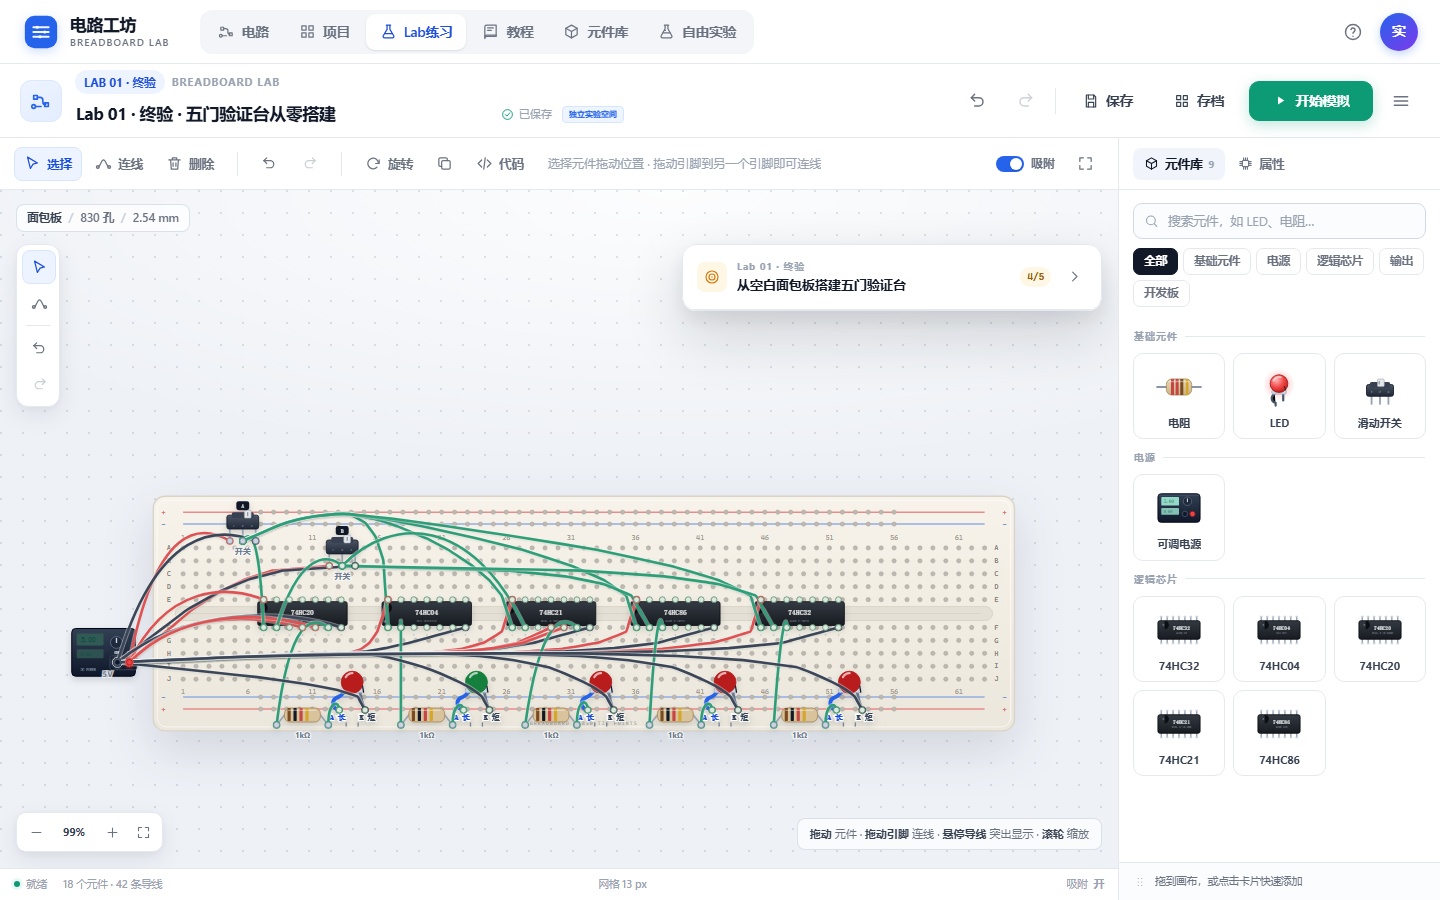
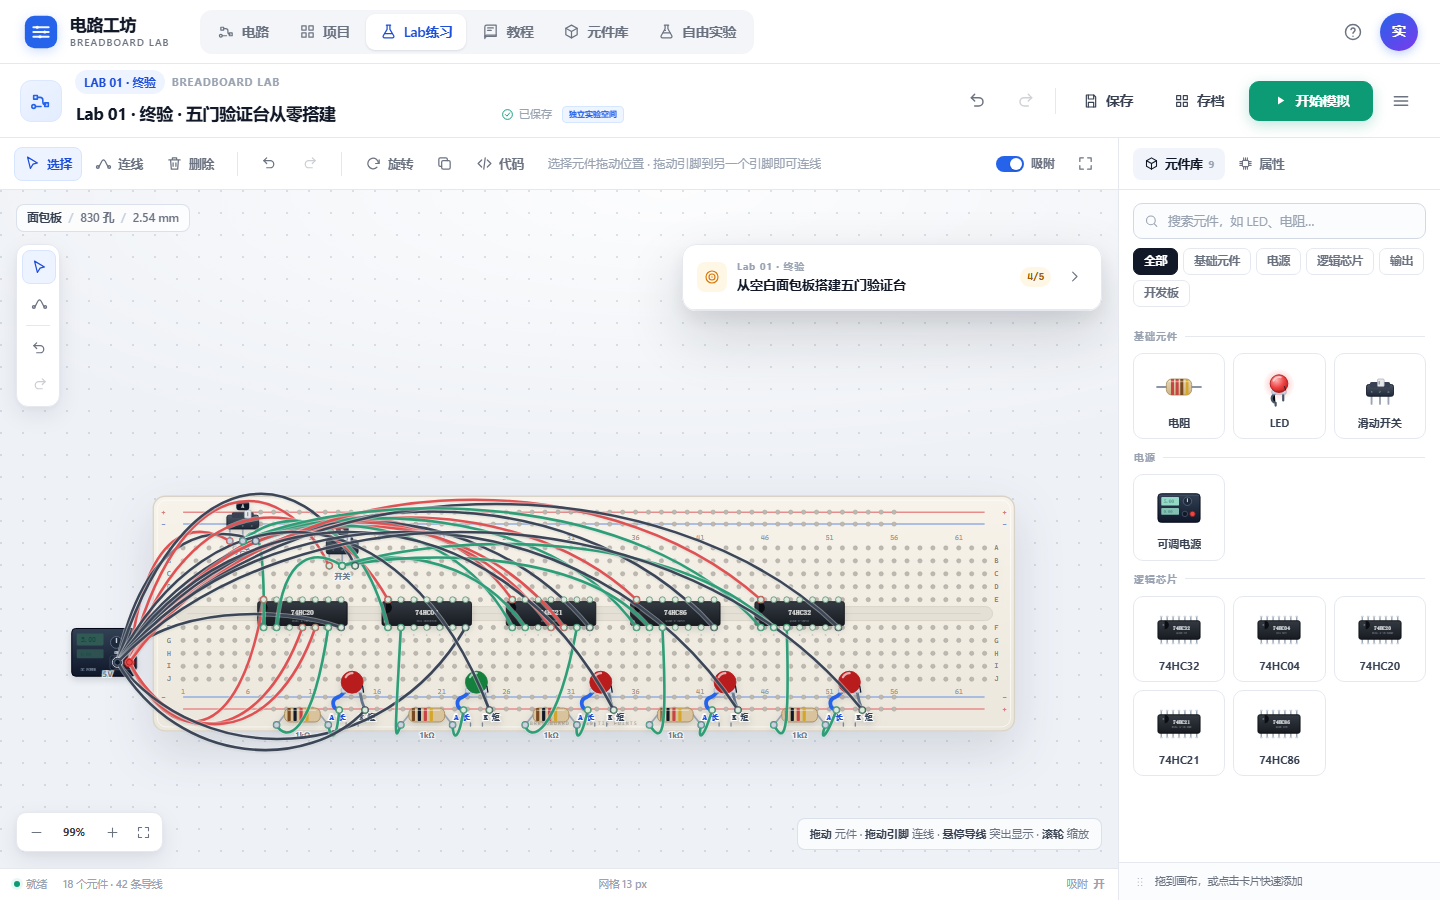
Add files via upload

Changed region(s): [[0.0625, 0.5289, 0.5938, 0.84]]

diff --git a/js/editor.js b/js/editor.js
@@ -1012,60 +1012,43 @@
     const dx = b.x - a.x, dy = b.y - a.y;
     const dist = Math.max(1, Math.hypot(dx, dy));
     const n = Number(seed) || 0;
-    if (dist < 34 && Math.abs(dy) < 24) {
-      const lift = 8 + (Math.abs(n) % 3) * 2;
-      const cy = Math.min(a.y, b.y) - lift;
-      return 'M' + a.x.toFixed(2) + ' ' + a.y.toFixed(2) + ' C' + a.x.toFixed(2) + ' ' + cy.toFixed(2) + ' ' + b.x.toFixed(2) + ' ' + cy.toFixed(2) + ' ' + b.x.toFixed(2) + ' ' + b.y.toFixed(2);
-    }
-    const rects = (obstacles || []).map((o) => ({
-      x: o.x - 14, y: o.y - 14, w: o.w + 28, h: o.h + 28
-    }));
+    const bend = ((n % 9) - 4);
     const minY = Math.min(a.y, b.y), maxY = Math.max(a.y, b.y);
-    const minX = Math.min(a.x, b.x) - 10, maxX = Math.max(a.x, b.x) + 10;
-    if (this.segmentClear(a, b, rects)) {
-      const lift = Math.min(18, 8 + dist * 0.03) + (Math.abs(n) % 5) * 1.2;
-      const cy = Math.min(a.y, b.y) - lift;
-      const sway = ((Math.abs(n) % 7) - 3) * 1.3;
-      const c1 = { x: a.x + dx * 0.28 + sway, y: cy };
-      const c2 = { x: b.x - dx * 0.28 + sway, y: cy };
-      if (this.cubicClear(a, c1, c2, b, rects)) {
-        return 'M' + a.x.toFixed(2) + ' ' + a.y.toFixed(2) +
-          ' C' + c1.x.toFixed(2) + ' ' + c1.y.toFixed(2) + ' ' + c2.x.toFixed(2) + ' ' + c2.y.toFixed(2) + ' ' + b.x.toFixed(2) + ' ' + b.y.toFixed(2);
-      }
-    }
+    const minX = Math.min(a.x, b.x) - 6, maxX = Math.max(a.x, b.x) + 6;
     let top = Infinity, bottom = -Infinity;
-    rects.forEach((o) => {
+    (obstacles || []).forEach((o) => {
       if (o.x < maxX && o.x + o.w > minX) {
         top = Math.min(top, o.y);
         bottom = Math.max(bottom, o.y + o.h);
       }
     });
-    const aboveLift = top === Infinity ? 18 : Math.max(18, minY - top + 18);
-    const belowLift = bottom === -Infinity ? 18 : Math.max(18, bottom - maxY + 18);
-    const sides = aboveLift <= belowLift ? [-1, 1] : [1, -1];
+    const aboveLift = top === Infinity ? Math.max(12, 14 + dist * 0.035) : Math.max(16, minY - top + 16);
+    const belowLift = bottom === -Infinity ? Math.max(12, 14 + dist * 0.035) : Math.max(16, bottom - maxY + 16);
+    const boardMid = this.scene && this.scene.board ? this.scene.board.y + this.scene.board.h * 0.52 : 440;
+    const preferBelow = a.y > boardMid && b.y > boardMid && Math.abs(dx) < 180;
+    const sides = preferBelow ? [1, -1] : [-1, 1];
     for (const side of sides) {
       const base = side < 0 ? aboveLift : belowLift;
       for (let extra = 0; extra < 4; extra++) {
-        const apex = side < 0 ? minY - base - extra * 11 : maxY + base + extra * 11;
-        const sway = ((Math.abs(n) % 7) - 3) * 2 + side * 2;
-        const c1 = { x: a.x + dx * 0.28 + sway, y: apex };
-        const c2 = { x: b.x - dx * 0.28 + sway, y: apex };
-        if (this.cubicClear(a, c1, c2, b, rects)) {
-          return 'M' + a.x.toFixed(2) + ' ' + a.y.toFixed(2) +
-            ' C' + c1.x.toFixed(2) + ' ' + c1.y.toFixed(2) + ' ' + c2.x.toFixed(2) + ' ' + c2.y.toFixed(2) + ' ' + b.x.toFixed(2) + ' ' + b.y.toFixed(2);
+        const cy = side < 0 ? minY - base - extra * 10 : maxY + base + extra * 10;
+        const sway = bend * 2.2;
+        const x1 = a.x + dx * 0.24 + sway;
+        const x2 = b.x - dx * 0.24 + sway;
+        if (this.cubicClear(a, { x: x1, y: cy }, { x: x2, y: cy }, b, obstacles || [])) {
+          return 'M' + a.x.toFixed(2) + ' ' + a.y.toFixed(2) + ' C' + x1.toFixed(2) + ' ' + cy.toFixed(2) + ' ' + x2.toFixed(2) + ' ' + cy.toFixed(2) + ' ' + b.x.toFixed(2) + ' ' + b.y.toFixed(2);
         }
       }
     }
-    const route = this.routeAround(a, b, rects);
-    if (route && route.length > 2) {
-      const clean = route.filter((p, i) => i === 0 || Math.hypot(p.x - route[i - 1].x, p.y - route[i - 1].y) > 2);
-      if (clean.length > 2) return this.curvePath(this.chaikin(clean, 2), 0.22);
+    // Fallback to the original single high arc.
+    let lift = Math.min(52, 16 + dist * 0.065) + bend * 3;
+    let cy = Math.min(a.y, b.y) - lift;
+    if (obstacles && obstacles.length && !this.segmentClear(a, b, obstacles)) {
+      if (top !== Infinity) cy = Math.min(cy, top - 22);
     }
-    // Last resort: a controlled arc above every obstacle in this x range.
-    const cy = Math.min(a.y, b.y, top === Infinity ? Infinity : top - 18) - 14 - (Math.abs(n) % 4) * 3;
-    const bend = ((Math.abs(n) % 5) - 2) * 2;
-    return 'M' + a.x.toFixed(2) + ' ' + a.y.toFixed(2) +
-      ' C' + (a.x + dx * .26 + bend).toFixed(2) + ' ' + cy.toFixed(2) + ' ' + (b.x - dx * .26 + bend).toFixed(2) + ' ' + cy.toFixed(2) + ' ' + b.x.toFixed(2) + ' ' + b.y.toFixed(2);
+    const sway = bend * 2.2;
+    const x1 = a.x + dx * 0.24 + sway;
+    const x2 = b.x - dx * 0.24 + sway;
+    return 'M' + a.x.toFixed(2) + ' ' + a.y.toFixed(2) + ' C' + x1.toFixed(2) + ' ' + cy.toFixed(2) + ' ' + x2.toFixed(2) + ' ' + cy.toFixed(2) + ' ' + b.x.toFixed(2) + ' ' + b.y.toFixed(2);
   };
 
   Editor.prototype.wireRouteSeed = function (w) {

diff --git a/README.md b/README.md
@@ -32,7 +32,7 @@
 - **8051 汇编实验台**：Lab 04、05、06 直接在浏览器里写 8051 汇编，支持 MOV/ADD/ADDC/DPTR/MOVX、位操作、DJNZ、JNB/JB 和调用；右侧实时看 A、R0–R7、DPTR、PSW、P1/P2 以及 2000h 数据存储器。Lab 04 检查 16 位加法结果，Lab 05 检查 P1 二进制计数，Lab 06 检查 4 位按钮计数器。
 - **Arduino 代码实验室**：底部代码面板支持可视化积木示例和可编辑文本，内置 setup/loop、pinMode、digitalWrite、analogWrite、digitalRead、analogRead、if/else、变量、Serial 与 delay；代码可以真正驱动 D13/D9 的 LED、读取 D2 按钮和 A0 电位器，并带串口监视器。
 - **大白话优先**：每一关先给一句“先用人话说”，每一步都补一句“为什么这样做”；30 个元件先给一句日常解释和“为什么需要它”，专业参数和引脚说明收进“想深入一点”里。
-- **智能曲线布线**：直线路径没有被元件挡住时画一条轻微弧度曲线；被挡住时优先从元件上方或下方画一条自然拱形曲线，并采样检查不会穿进芯片；A* 只在上下都走不通时兜底。元件位置会被限制在面包板范围内，拖到画布空白处也会自动吸回，避免出现“线飞到场外”的长线。
+- **平滑曲线布线**：恢复 Lab 作业改版时的单条平滑 cubic 曲线；被挡时优先从元件上方绕，靠下且距离短的线会从下方绕；元件位置限制在面包板范围内，拖到画布空白处会自动吸回，避免“线飞到场外”。
 - **每个 Lab 独立实验空间**：进入某个 Lab 后，自动保存写到该关自己的 workspace key；元件库只显示本关需要的元件；「存档」也只列出当前实验空间的存档。8051 的代码存档同样按 Lab 04/05/06 分开。
 - **本地多存档**：编辑器顶部「存档」打开“我的存档”，可以把当前设计另存为多份命名快照；每份都能打开、重命名、导出 JSON 或删除。存档只保存在本浏览器 localStorage，不上传服务器；打开某份存档后按 Ctrl+S 或「保存」会更新该存档。
 - **器件损坏提示**：IC 输出脚超过 25 mA，或电源引脚总电流超过 50 mA 时，芯片上出现警告星标，弹出“此设备因以下原因而损坏”，并列出具体引脚、实测电流和最大值。
